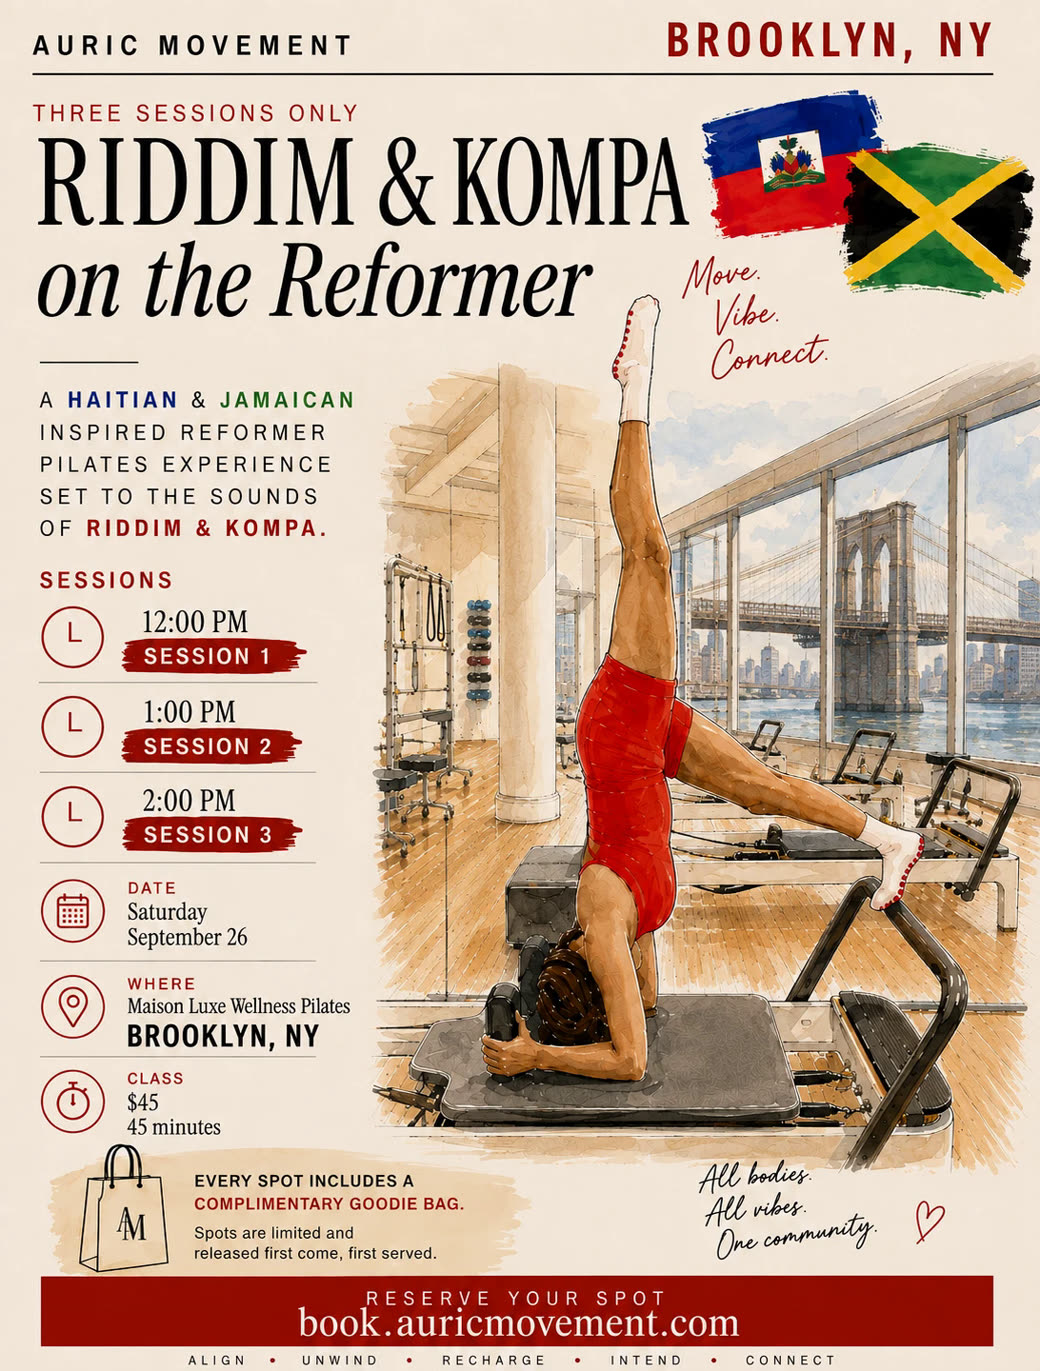
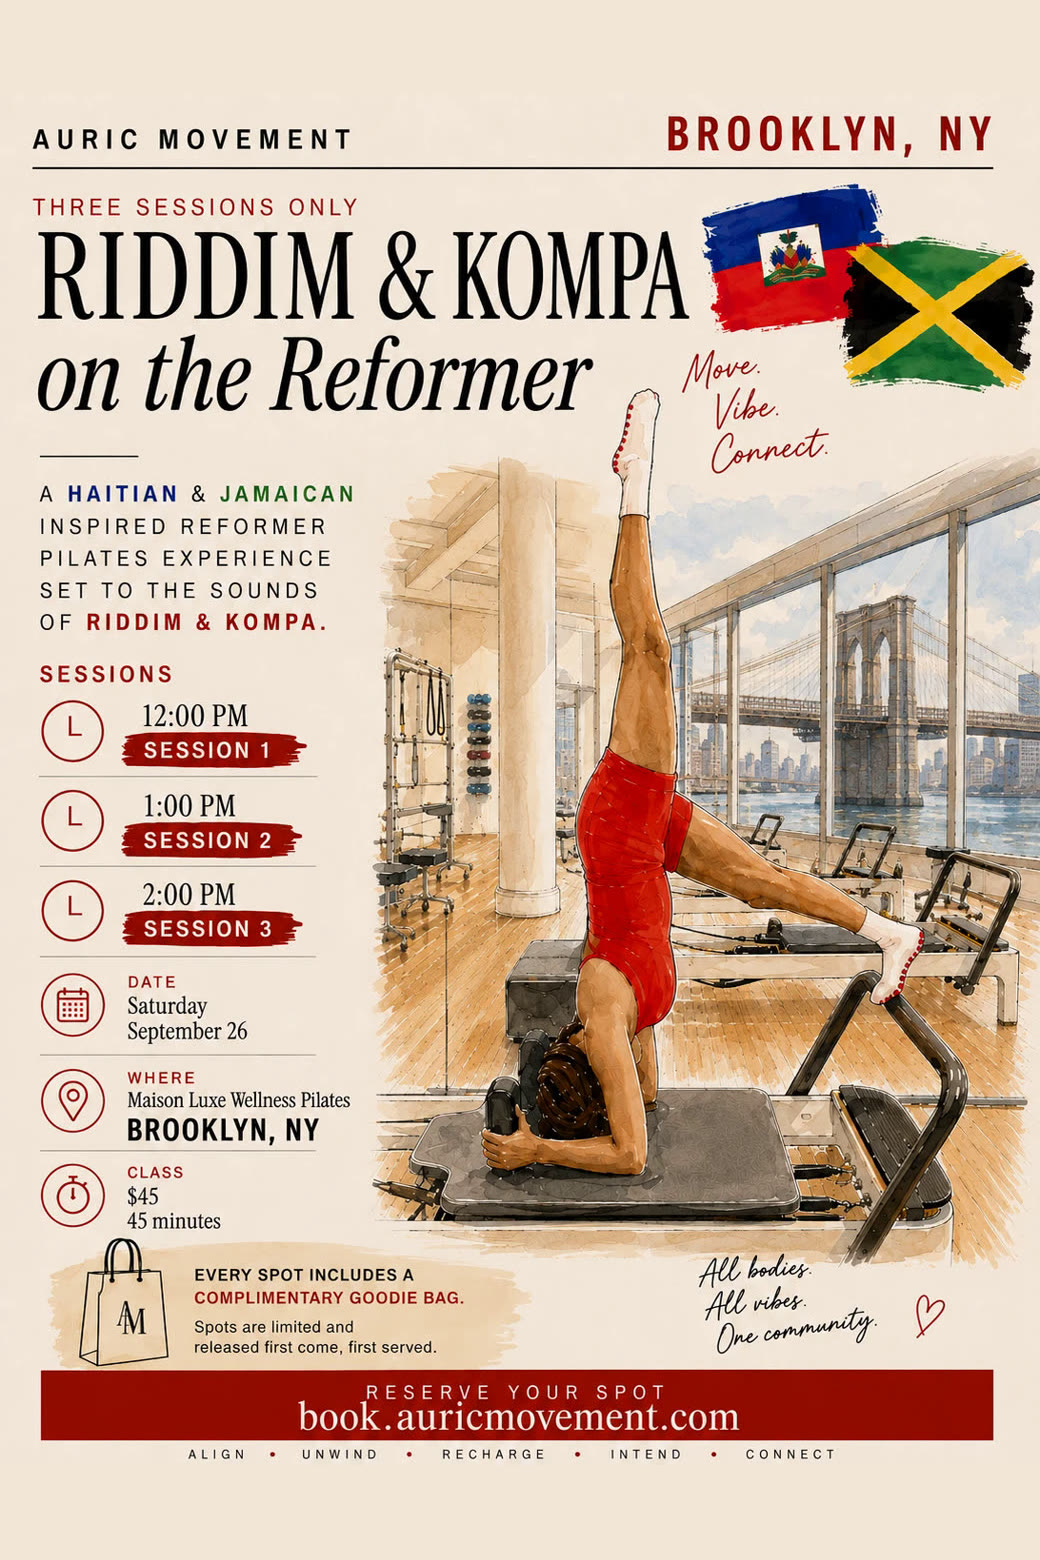
Normalize upcoming-event card flyers to a uniform 2:3 size (#245)
The card photo boxes are 2:3, but the Riddim (WH & Brooklyn) and Turkey
flyers were ~0.77 aspect, so "fit whole flyer" letterboxed them and they
looked smaller than the ~2:3 Halloween flyer. Pad reformer-flier-card,
riddim-kompa-brooklyn-flyer, and turkey-burn-flyer to an exact 2:3 canvas
(on each flyer's own cream background) so every upcoming-event card fills
its box identically. Bump cache versions on the affected card images.

Claude-Session: https://claude.ai/code/session_01C5C3S2hPFNYWpceXrqPaqV

diff --git a/index.html b/index.html
@@ -2843,8 +2843,8 @@
       <button type="button" id="event-card-reformer" class="bq-event scroll-reveal" data-event-date="2026-09-13" data-event-name="Reformer Pilates">
         <div class="bq-event-photo">
           <picture>
-            <source srcset="reformer-flier-card.webp?v=1" type="image/webp">
-            <img src="reformer-flier-card.jpg?v=1" alt="Riddim &amp; Kompa on the Reformer &#8212; Sunday, September 13th at Valley Studio, West Hempstead, NY &#183; $45, complimentary goodie bag" loading="lazy" decoding="async">
+            <source srcset="reformer-flier-card.webp?v=2" type="image/webp">
+            <img src="reformer-flier-card.jpg?v=2" alt="Riddim &amp; Kompa on the Reformer &#8212; Sunday, September 13th at Valley Studio, West Hempstead, NY &#183; $45, complimentary goodie bag" loading="lazy" decoding="async">
           </picture>
         </div>
         <div class="bq-event-date">09.13.26 &#183; Riddim &amp; Kompa</div>
@@ -2857,7 +2857,7 @@
       <!-- Riddim & Kompa on the Reformer — Brooklyn, Sept 26. Opens the Brooklyn booking overlay. -->
       <button type="button" id="event-card-reformer-bk" class="bq-event scroll-reveal" data-event-date="2026-09-26" data-event-name="Riddim &amp; Kompa &#8212; Brooklyn">
         <div class="bq-event-photo">
-          <img src="riddim-kompa-brooklyn-flyer.jpg?v=2" alt="Riddim &amp; Kompa on the Reformer &#8212; Brooklyn. Saturday, September 26 at Maison Luxe Wellness Pilates, Brooklyn NY &#183; three sessions (12, 1 &amp; 2 PM) &#183; $45, complimentary goodie bag" loading="lazy" decoding="async">
+          <img src="riddim-kompa-brooklyn-flyer.jpg?v=3" alt="Riddim &amp; Kompa on the Reformer &#8212; Brooklyn. Saturday, September 26 at Maison Luxe Wellness Pilates, Brooklyn NY &#183; three sessions (12, 1 &amp; 2 PM) &#183; $45, complimentary goodie bag" loading="lazy" decoding="async">
         </div>
         <div class="bq-event-date">09.26.26 &#183; Riddim &amp; Kompa</div>
         <div class="bq-event-name">Riddim &amp; Kompa <em>on the Reformer</em></div>
@@ -2881,7 +2881,7 @@
       <!-- Turkey Burn! — Nov 21, Valley Studio. Opens the Turkey Burn booking overlay. -->
       <button type="button" id="event-card-turkey" class="bq-event scroll-reveal" data-event-date="2026-11-21" data-event-name="Turkey Burn!">
         <div class="bq-event-photo">
-          <img src="turkey-burn-flyer.jpg?v=2" alt="Turkey Burn! on the Reformer &#8212; Saturday, November 21 at Valley Studio, West Hempstead NY &#183; two sessions (12:30 &amp; 1:30 PM) &#183; $45" loading="lazy" decoding="async">
+          <img src="turkey-burn-flyer.jpg?v=3" alt="Turkey Burn! on the Reformer &#8212; Saturday, November 21 at Valley Studio, West Hempstead NY &#183; two sessions (12:30 &amp; 1:30 PM) &#183; $45" loading="lazy" decoding="async">
         </div>
         <div class="bq-event-date">11.21.26 &#183; Turkey Burn</div>
         <div class="bq-event-name">Turkey <em>Burn!</em></div>
